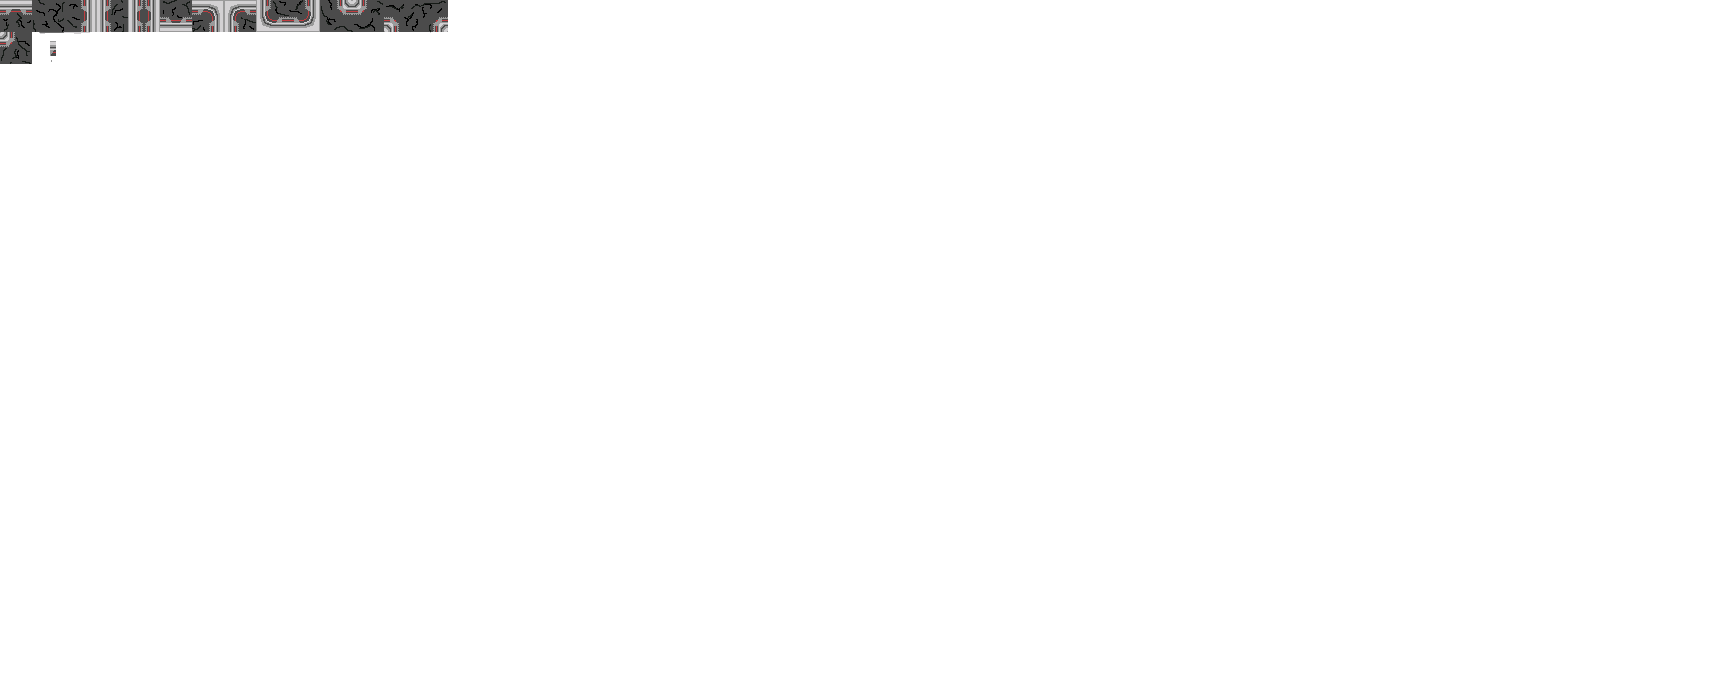
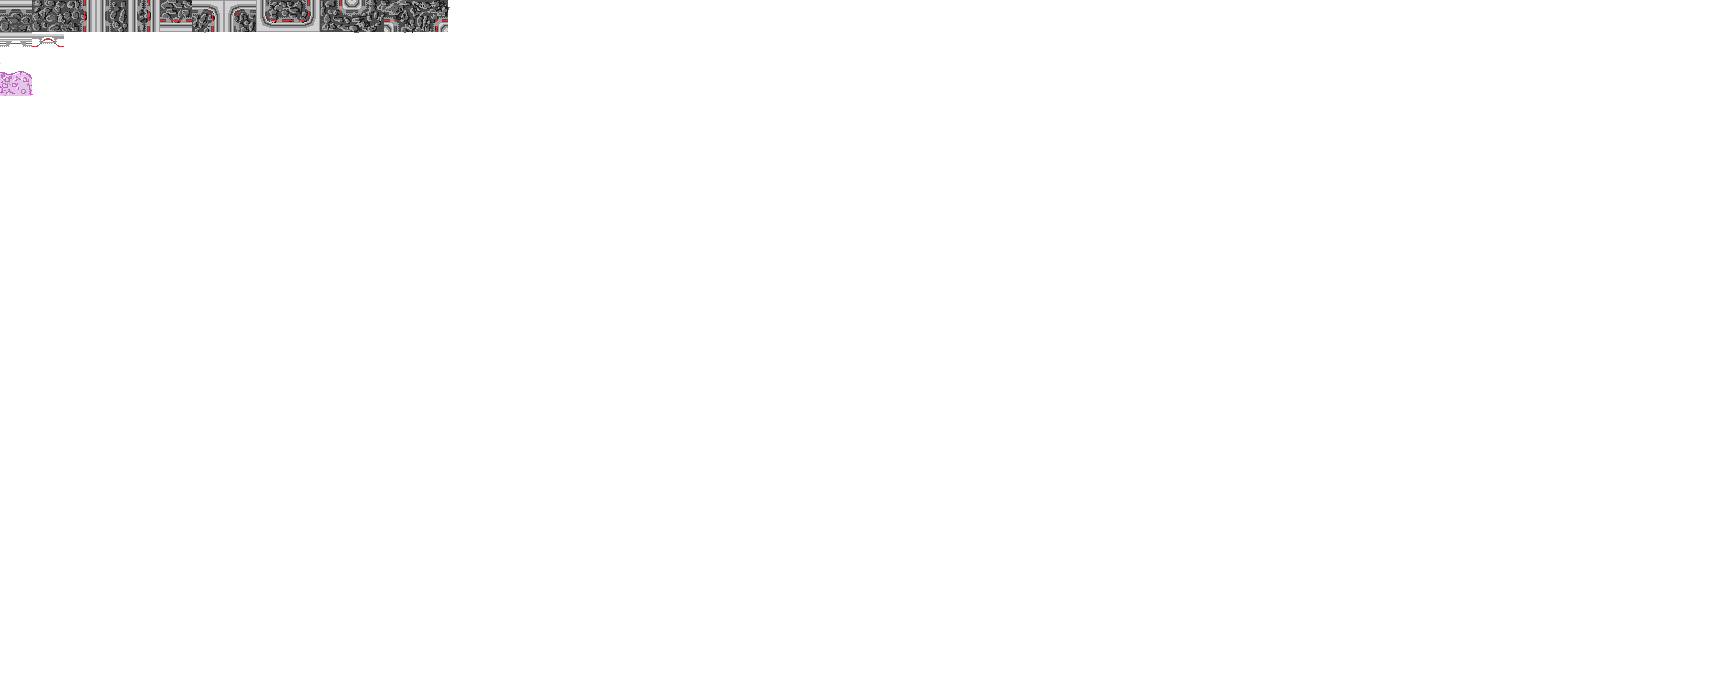
More textures

Changed region(s): [[0.0, 0.0, 0.155, 0.1533], [0.155, 0.0, 0.2789, 0.0613]]

diff --git a/Jumper/src/com/kneuroth/jumper/window/Game.java b/Jumper/src/com/kneuroth/jumper/window/Game.java
@@ -211,11 +211,11 @@ public class Game extends Canvas implements Runnable {
                 
                 
                 //Brown - Platform
-                if(red == 185 && green == 122 && blue == 87)handler.addObject(new Platform(xx*32, yy*32, ObjectId.Platform));
+                if(red == 185 && green == 122 && blue == 87)handler.addObject(new Platform(xx*32, yy*32, 14, ObjectId.Platform));
                 //Purple - Bouncy Block
-                if(red == 163 && green == 73 && blue == 164)handler.addObject(new BounceBlock(xx*32, yy*32, ObjectId.BounceBlock));
+                if(red == 163 && green == 73 && blue == 164)handler.addObject(new BounceBlock(xx*32, yy*32,16,  ObjectId.BounceBlock));
                 //Green - Rail
-                if(red == 34 && green == 177 && blue == 76)handler.addObject(new Rail(xx*32, yy*32, ObjectId.Rail));
+                if(red == 34 && green == 177 && blue == 76)handler.addObject(new Rail(xx*32, yy*32, 15, ObjectId.Rail));
                 //Blue - Player
                 if(red == 63 && green == 72 && blue == 204)handler.addObject(new Player(xx * 32, yy*32, handler, ObjectId.Player));
                 //Orange - Box

diff --git a/Jumper/src/com/kneuroth/jumper/window/framework/objects/BounceBlock.java b/Jumper/src/com/kneuroth/jumper/window/framework/objects/BounceBlock.java
@@ -5,8 +5,10 @@
  */
 package com.kneuroth.jumper.window.framework.objects;
 
+import com.kneuroth.jumper.window.Game;
 import com.kneuroth.jumper.window.framework.GameObject;
 import com.kneuroth.jumper.window.framework.ObjectId;
+import com.kneuroth.jumper.window.framework.Texture;
 import java.awt.Color;
 import java.awt.Graphics;
 import java.awt.Rectangle;
@@ -18,10 +20,14 @@ import java.util.LinkedList;
  */
 public class BounceBlock extends GameObject{
     
-    private float height = 32, width = 32;
+    Texture tex = Game.getInstance();
     
-    public BounceBlock(float x, float y, ObjectId id) {
+    private float height = 32, width = 32;
+    private int type;;
+    
+    public BounceBlock(float x, float y, int type, ObjectId id) {
         super(x, y, id);
+        this.type = type;
     }
 
     @Override
@@ -30,8 +36,7 @@ public class BounceBlock extends GameObject{
 
     @Override
     public void render(Graphics g) {
-        g.setColor(Color.magenta);
-        g.drawRect((int)x, (int)y, 32, 32);
+        g.drawImage(tex.block[type], (int)x, (int)y, null);
     }
 
     @Override

diff --git a/Jumper/src/com/kneuroth/jumper/window/framework/objects/Rail.java b/Jumper/src/com/kneuroth/jumper/window/framework/objects/Rail.java
@@ -5,8 +5,10 @@
  */
 package com.kneuroth.jumper.window.framework.objects;
 
+import com.kneuroth.jumper.window.Game;
 import com.kneuroth.jumper.window.framework.GameObject;
 import com.kneuroth.jumper.window.framework.ObjectId;
+import com.kneuroth.jumper.window.framework.Texture;
 import java.awt.Color;
 import java.awt.Graphics;
 import java.awt.Rectangle;
@@ -17,11 +19,14 @@ import java.util.LinkedList;
  * @author Kelly
  */
 public class Rail extends GameObject{
-    
+    Texture tex = Game.getInstance();
     private float height = 32, width = 16;
     
-    public Rail(float x, float y, ObjectId id) {
+    private int type;
+    
+    public Rail(float x, float y, int type, ObjectId id) {
         super(x, y, id);
+        this.type = type;
     }
     
     @Override
@@ -31,8 +36,7 @@ public class Rail extends GameObject{
 
     @Override
     public void render(Graphics g) {
-        g.setColor(Color.green);
-        g.drawRect((int)x, (int)y, (int)height, (int)width);
+        g.drawImage(tex.block[type], (int)x, (int)y, null);
     }
 
     @Override

diff --git a/Jumper/src/com/kneuroth/jumper/window/framework/objects/Platform.java b/Jumper/src/com/kneuroth/jumper/window/framework/objects/Platform.java
@@ -5,8 +5,10 @@
  */
 package com.kneuroth.jumper.window.framework.objects;
 
+import com.kneuroth.jumper.window.Game;
 import com.kneuroth.jumper.window.framework.GameObject;
 import com.kneuroth.jumper.window.framework.ObjectId;
+import com.kneuroth.jumper.window.framework.Texture;
 import java.awt.Color;
 import java.awt.Graphics;
 import java.awt.Rectangle;
@@ -18,10 +20,14 @@ import java.util.LinkedList;
  */
 public class Platform extends GameObject {
     
+    Texture tex = Game.getInstance();
+    
     private float height = 32, width = 32;
+    private int type;
 
-    public Platform(float x, float y, ObjectId id) {
+    public Platform(float x, float y, int type, ObjectId id) {
         super(x, y, id);
+        this.type = type;
     }
 
     @Override
@@ -30,8 +36,7 @@ public class Platform extends GameObject {
 
     @Override
     public void render(Graphics g) {
-        g.setColor(Color.white);
-        g.drawRect((int)x, (int)y, (int)height, (int)width);
+        g.drawImage(tex.block[type], (int)x, (int)y, null);
     }
 
     @Override

diff --git a/Jumper/src/com/kneuroth/jumper/window/framework/Texture.java b/Jumper/src/com/kneuroth/jumper/window/framework/Texture.java
@@ -18,7 +18,7 @@ public class Texture {
     private BufferedImage block_sheet = null;
     private BufferedImage player_sheet = null;
     
-    public BufferedImage[] block = new BufferedImage[15];
+    public BufferedImage[] block = new BufferedImage[17];
     public BufferedImage[] player = new BufferedImage[12];
     
     public Texture(){
@@ -60,6 +60,12 @@ public class Texture {
         block[11] = bs.grabImage(12, 1, 32, 32);//corner up left
         block[12] = bs.grabImage(13, 1, 32, 32);//corner down left
         block[13] = bs.grabImage(14, 1, 32, 32);//corner down right
+        
+        block[14] = bs.grabImage(1, 2, 32, 32);//Platform floor
+        
+        block[15] = bs.grabImage(2, 2, 32, 32);//Rail
+        
+        block[16] = bs.grabImage(1, 3, 32, 32);
         
         player[0] = ps.grabImage(1, 1, 40, 60); //idle
         
